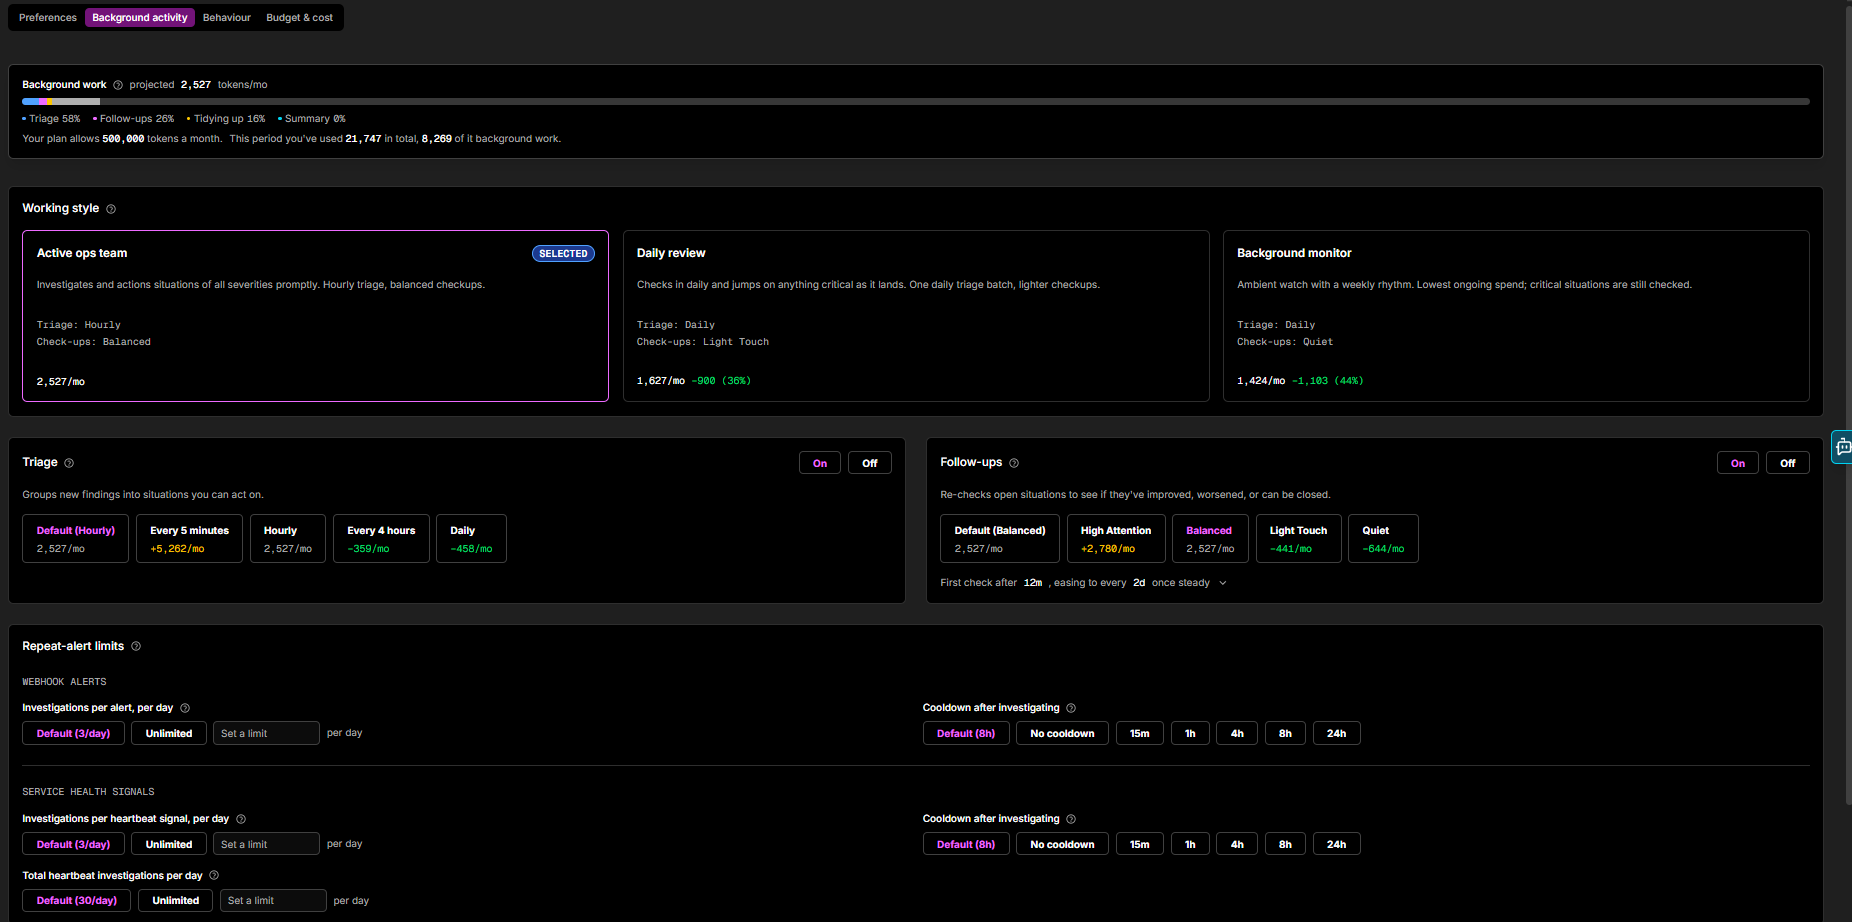
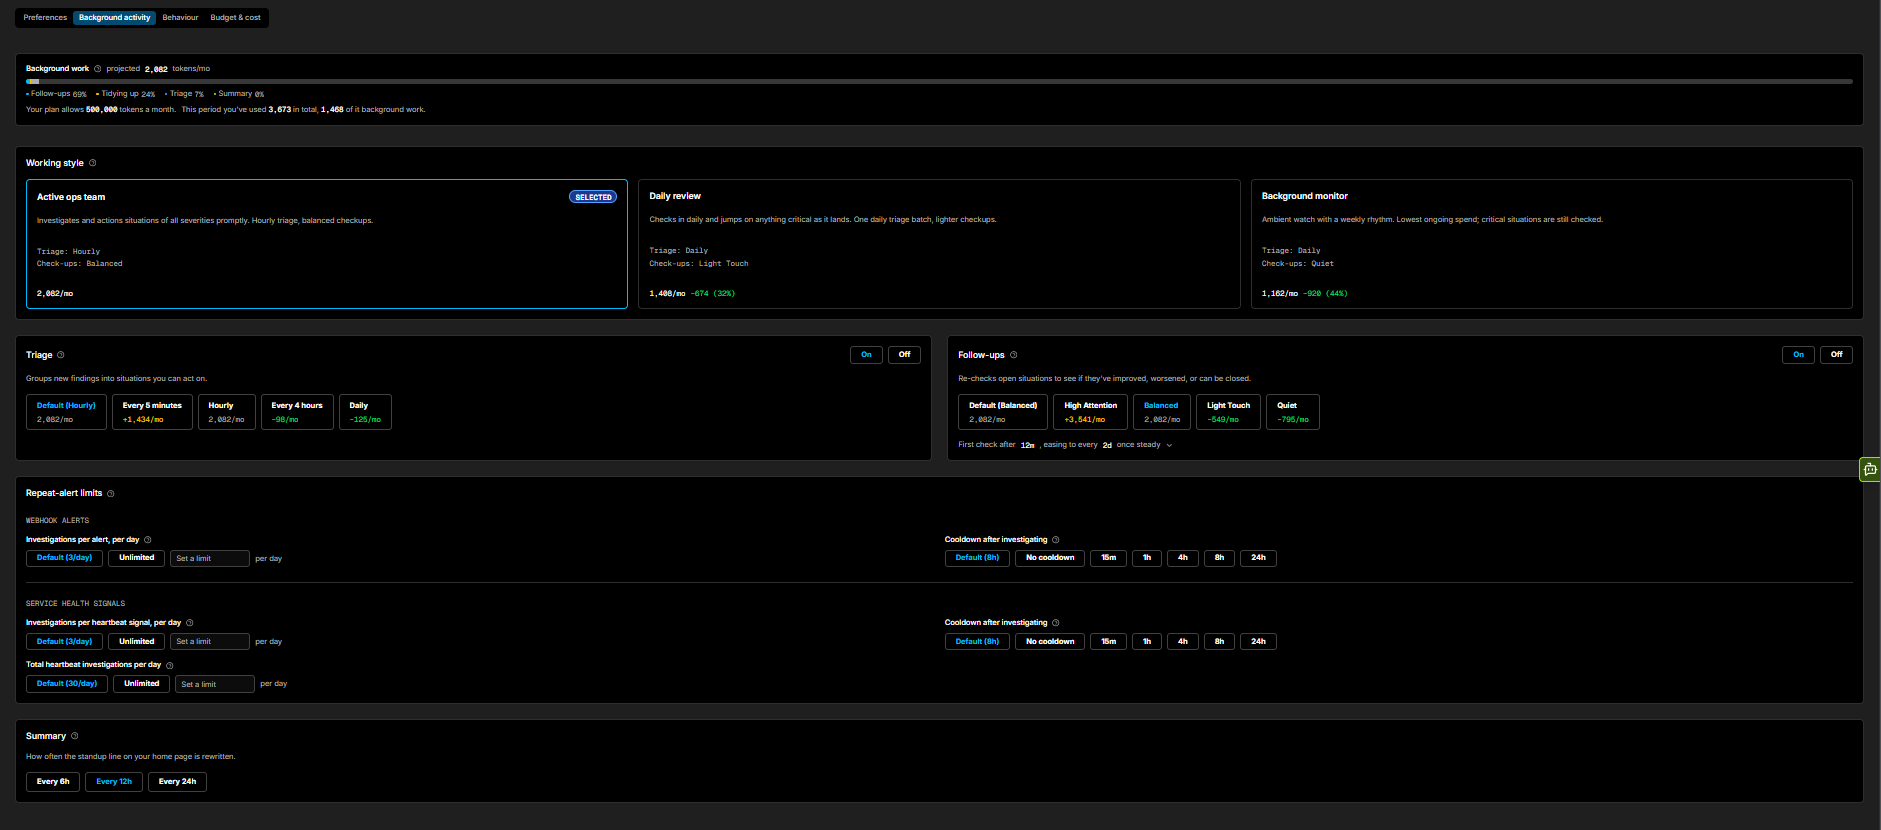
Reconcile Coworker Usage and Settings pages with the current UI (#45)
* Reconcile Coworker Usage and Settings pages with the current UI

- Usage: note the suggestions pill and top banner, document the "..." menu-less
  Optimisation suggestions as a panel opened from the lightbulb (with Apply all),
  add the per-task suggestion badge and the Background sub-tab Total row, and
  point the AI Token Allowance controls at the Budget & cost page
- Preferences: add the missing Muted services setting
- Background activity: note that each preset/option shows its projected monthly
  cost and saving vs the current setting
- Budget & cost: rework to the current model - "Coworker spend" card, Monthly
  spend cap (50/80/Plan), On-demand as a hard ceiling when off, Warning as a
  percentage of the cap; remove the old Halt threshold
- Refresh the Settings screenshots

* @
Move Preferences screenshot below the intro paragraph

@

---------

Changed region(s): [[0.0, 0.0, 1.0, 1.0], [0.4924, 0.7229, 0.7387, 0.8133]]

diff --git a/docs/Data-insights/Features/OpsPilot/Coworker/usage.md b/docs/Data-insights/Features/OpsPilot/Coworker/usage.md
@@ -23,7 +23,7 @@ Usage varies depending on the amount of context, telemetry and reasoning require
 
 ## Activity tab
 
-The **Activity** tab shows what Coworker has done over a selected time range. Use the **Plan period** selector in the top right to switch between plan years, and the **Last 30 days / Last 90 days / Full period** toggle to adjust the window within that period.
+The **Activity** tab shows what Coworker has done over a selected time range. Use the **Plan period** selector in the top right to switch between plan years, and the **Last 30 days / Last 90 days / Full period** toggle to adjust the window within that period. A **suggestions** indicator (for example, **2 suggestions**) in the top right opens the [Optimization Suggestions](#optimization-suggestions) panel.
 
 ![!Screenshot](../../../../Coworker/usage-activity.png)
 
@@ -59,6 +59,8 @@ The **AI Tokens** tab gives you full visibility into AI Token spend and the cont
 
 ![!Screenshot](../../../../Coworker/usage-tokens.png)
 
+When Coworker spots a high-impact way to save tokens, it surfaces the headline suggestion as a banner at the top of the tab - for example, *"54% of your token usage this period went on Heartbeat investigations"* - with a one-click action such as **Review signals**. Open the full list from the suggestions indicator (lightbulb) - see [Optimization Suggestions](#optimization-suggestions).
+
 !!! tip
     One of the most effective ways to reduce AI Token usage over time is simply to let tasks run. As [task-specific memory](overview.md#memory) builds up, Coworker re-uses context it already knows rather than fetching it fresh on every run, reducing usage by up to 50% in some cases.
 
@@ -71,17 +73,7 @@ Below the bar, a legend breaks down usage by source:
 - **Coworker**: AI Tokens used by Coworker's task and investigation work
 - **Other**: everything else, such as direct chat conversations
 
-Click **Configure** to go to **Settings > Budget & cost**.
-
-Your **Plan allowance** is shown as a fixed value set by your plan (e.g. 5,000 tokens/month). The remaining settings are configurable:
-
-| Setting | Description |
-|---|---|
-| **Monthly task allowance** | The percentage of your plan allowance allocated to tasks and webhook investigations. Select a preset (5%, 10%, 20%, 50%, 80%, 100%) or use the slider |
-| **Warning threshold** | The percentage of your task allowance at which Coworker warns you about spend (e.g. "Warn at 50% of allowance") |
-| **Halt threshold** | The percentage at which Coworker stops running tasks (e.g. "Stop tasks at 50% of allowance") |
-
-Coworker pauses new task runs when the halt threshold is reached. Click **Save** to apply your changes.
+Click **Configure** to open **Settings > [Budget & cost](Settings/budget-cost.md)**, where you set how much Coworker can spend - your **Monthly spend cap**, whether **On-demand usage** is allowed past your plan allowance, and the **Warning threshold**. See [Budget & cost](Settings/budget-cost.md) for the full details.
 
 ### AI Token usage over time
 
@@ -101,6 +93,8 @@ The **AI Token Breakdown** table has two sub-tabs:
 | **New findings** | Findings generated by this task in the period |
 | **Period total** | Total AI Tokens consumed by this task in the period |
 
+A task with a pending optimization suggestion shows a suggestion badge (a lightbulb with a count) next to its name.
+
 Tasks that have since been deleted still appear (shown as *Deleted task*) so their past spend stays counted for the period.
 
 **Background** - shows AI Token usage from Coworker's continuous monitoring work that runs outside of named tasks. Each row shows the activity type, period total, and projected monthly cost:
@@ -112,9 +106,11 @@ Tasks that have since been deleted still appear (shown as *Deleted task*) so the
 | **Triaging new alerts** | Initial investigation of incoming alerts |
 | **Tidying the inbox** | Consolidating, merging, and closing situations |
 
+A **Total** row at the bottom sums the period total and projected monthly cost across all background activities.
+
 ### Optimization Suggestions
 
-Optimization suggestions appear at the bottom of the AI Tokens tab. Each suggestion shows a title, a plain-language explanation of the proposed change, and an estimated monthly AI Token saving (e.g. *Est. save 115 tokens/mo*). Click the chevron to expand the full detail, which includes:
+Click the **suggestions** indicator (the lightbulb showing a count, for example **2 suggestions**) to open the **Optimisation suggestions** panel - token-saving changes Coworker recommends, to review and apply the ones you want. Each suggestion shows a title, a plain-language explanation of the proposed change, and an estimated monthly AI Token saving (e.g. *Est. save 45 tokens/mo*). Click the chevron to expand the full detail, which includes:
 
 - **Why this suggestion** - Coworker's reasoning, including the pattern it observed and the estimated reduction per run
 - **Instruction changes** - the exact proposed instructions that would be applied, so you can review the change before accepting
@@ -123,6 +119,8 @@ From an expanded suggestion you can:
 
 - **Apply**: apply the change immediately
 - **Dismiss**: ignore it. Coworker won't keep pushing the same suggestion.
+
+To apply every suggestion at once, click **Apply all** at the top of the panel.
 
 Suggestions never come at the expense of monitoring quality. Coworker won't suggest anything that would reduce its ability to catch real problems. Where a task is already running efficiently, it will say so.
 

diff --git a/docs/Data-insights/Features/OpsPilot/Coworker/Settings/budget-cost.md b/docs/Data-insights/Features/OpsPilot/Coworker/Settings/budget-cost.md
@@ -1,19 +1,18 @@
 # Budget & cost
 
-The **Budget & cost** tab is a single **Coworker allowance** card that controls how much Coworker can spend each month and what happens as it approaches the limit. The allowance covers tasks, webhooks, heartbeat, and chat; catalog maintenance is budgeted separately.
+The **Budget & cost** tab is a single **Coworker spend** card that controls how much Coworker can spend each month and what happens as it approaches the limit. It covers tasks, webhooks, heartbeat, and chat; catalog maintenance is budgeted separately.
 
 ![!Screenshot](../../../../../Coworker/budget-cost.png)
 
 | Control | Description |
 |---|---|
 | **Your plan allowance** | Your organisation's total monthly AI Token allowance (read-only) |
-| **Coworker's share** | The portion of the plan allowance Coworker may spend. Enter a token amount - the panel shows the approximate number of investigations that buys per month, alongside your recent monthly average for comparison |
-| **On-demand usage** | **On / Off**, off by default. When on, Coworker keeps working past the allowance instead of holding off until the period renews. Turning it on reveals a **Stop after** field - a hard cap on the extra tokens Coworker may use beyond the allowance, shown with its equivalent cost and approximate investigation count |
-| **Warning threshold** | Sends a notification when spend reaches this percentage of the allowance. Pick a preset (5%-100%) or drag the slider. Defaults to 80% |
-| **Halt threshold** | Coworker holds off on new work when spend reaches this percentage of the allowance. Pick a preset (5%-100%) or drag the slider. Defaults to 100% |
+| **On-demand usage** | **On / Off**, off by default. **Off** makes your plan allowance a hard ceiling - Coworker pauses new work until the period renews, and nothing bills as on-demand. **On** lets Coworker keep working past the plan allowance, up to your monthly spend cap |
+| **Monthly spend cap** | The most Coworker may spend each month, in tokens. The panel shows the approximate number of investigations that buys per month, alongside your recent monthly average for comparison. Pick a preset (**50%**, **80%**, or **Plan**) or drag the slider; set it to **Plan** and Coworker stops exactly at your plan allowance |
+| **Warning threshold** | Sends a notification when spend reaches this percentage of the cap. Pick a preset (**5%** - **100%**) or drag the slider |
 
 !!! warning "On-demand usage can exceed your allowance"
-    With **On-demand usage** on, Coworker keeps spending past your allowance until the period renews. Set a **Stop after** cap to bound the extra cost.
+    With **On-demand usage** on, Coworker can spend past your plan allowance, up to your **Monthly spend cap**. Set the cap to bound the extra cost.
 
 Click **Save** to apply your changes. See [AI Tokens](../usage.md#ai-token-allowance) for full usage details and optimisation suggestions.
 

diff --git a/docs/Data-insights/Features/OpsPilot/Coworker/Settings/preferences.md b/docs/Data-insights/Features/OpsPilot/Coworker/Settings/preferences.md
@@ -2,6 +2,8 @@
 
 The **Preferences** tab controls what reaches your personal feed. It has two cards: **Feed relevance** and **Re-run onboarding**.
 
+![!Screenshot](../../../../../Coworker/preferences.png)
+
 ## Feed relevance
 
 Feed relevance shapes what reaches your personal feed. You can also ask Coworker to adjust these from any chat.
@@ -9,12 +11,11 @@ Feed relevance shapes what reaches your personal feed. You can also ask Coworker
 !!! info "Feed filtering only"
     Coworker still investigates everything across your organisation - Feed relevance only controls what surfaces for you versus what stays in the team view.
 
-![!Screenshot](../../../../../Coworker/preferences.png)
-
 | Setting | Description |
 |---|---|
 | **Your role** | Pick as many roles as fit: Developer, SRE / DevOps, Tech lead, or Manager / leadership. If every role you pick is a leadership one, Coworker keeps low-level observations out of your feed and surfaces only the things worth escalating |
 | **Focus services** | Service names you own or primarily work on. Glob patterns like `opspilot-*` work too. Situations affecting these services are prioritised in your feed |
+| **Muted services** | Situations on these services stay out of your feed, DMs, and notifications. Muting wins over everything else, including a service you also focus on. Glob patterns like `legacy-*` work too |
 | **Focus areas** | The kinds of things Coworker should prioritise when filtering your feed: Errors and exceptions, Application performance, Infrastructure and runtime, Databases and data stores, Data pipelines and quality, Deploys and releases, Team and delivery health, Reliability and SLOs, Cost and capacity, Security and auth |
 | **Custom keywords** | Anything beyond the domains above. A match nudges related situations into your feed |
 | **Advanced - focus area label** | A free-form team or area label that boosts situations tagged with it (e.g. `payments`, `platform infra`). Usually filled in automatically when you mention it during onboarding; set directly here if needed |

diff --git a/docs/Data-insights/Features/OpsPilot/Coworker/Settings/background-activity.md b/docs/Data-insights/Features/OpsPilot/Coworker/Settings/background-activity.md
@@ -18,7 +18,7 @@ Working style presets set your triage frequency and check-up cadence together, s
 | **Daily review** | Checks in daily and jumps on anything critical as it lands. One daily triage batch, lighter checkups | Daily | Light Touch |
 | **Background monitor** | Ambient watch with a weekly rhythm. Lowest ongoing spend; critical situations are still checked | Daily | Quiet |
 
-Selecting a preset fills in the **Triage** and **Follow-ups** controls below. You can still override either one individually afterwards.
+Each preset - and each individual **Triage** and **Follow-ups** option - shows its projected monthly cost and the saving or increase against your current setting (e.g. *1,408/mo - 674 (32%)*), so you can compare before choosing. Selecting a preset fills in the **Triage** and **Follow-ups** controls below. You can still override either one individually afterwards.
 
 ## Triage
 
